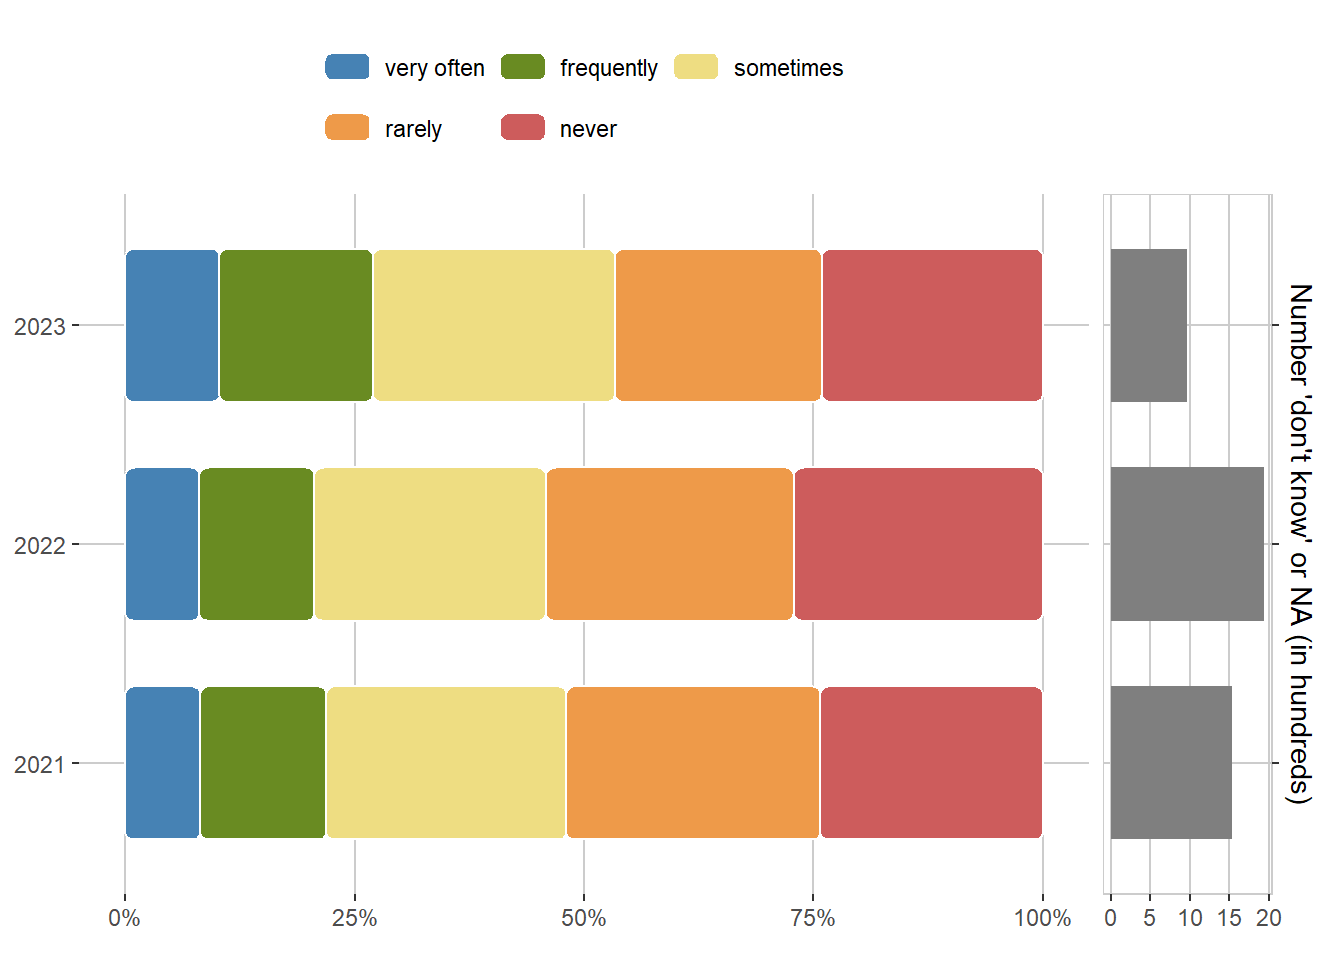
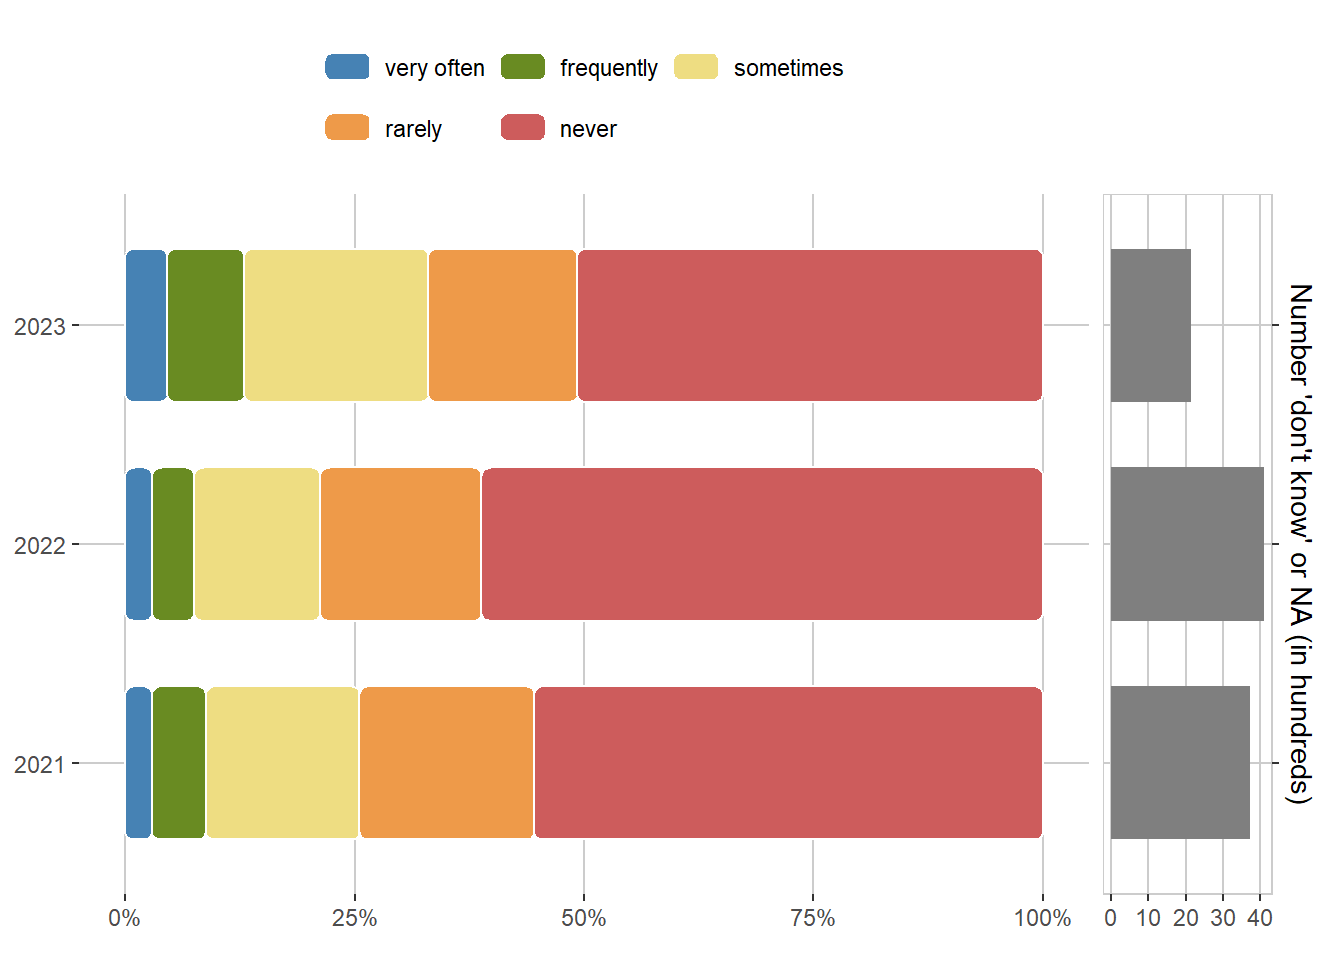
Investigate exemplary survey items

diff --git a/analysis_notebooks/survey_analysis.html b/analysis_notebooks/survey_analysis.html
@@ -343,16 +343,24 @@ ul.task-list li input[type="checkbox"] {
 </section>
 <section id="comparison-over-time-within-one-item" class="level1">
 <h1>Comparison over time within one item</h1>
+<section id="open-data" class="level2">
+<h2 class="anchored" data-anchor-id="open-data">Open data</h2>
+<p>“Experimental data should be published as openly as possible.” (X45)</p>
 <div class="cell">
 <div class="cell-output-display">
 <p><img src="survey_analysis_files/figure-html/unnamed-chunk-9-1.png" class="img-fluid" width="672"></p>
 </div>
 </div>
+</section>
+<section id="fabrications" class="level2">
+<h2 class="anchored" data-anchor-id="fabrications">Fabrications</h2>
+<p>“Making up data or facts about a scientific activity, for example, a research experiment.” (X26)</p>
 <div class="cell">
 <div class="cell-output-display">
 <p><img src="survey_analysis_files/figure-html/unnamed-chunk-10-1.png" class="img-fluid" width="672"></p>
 </div>
 </div>
+</section>
 </section>
 
 </main>
